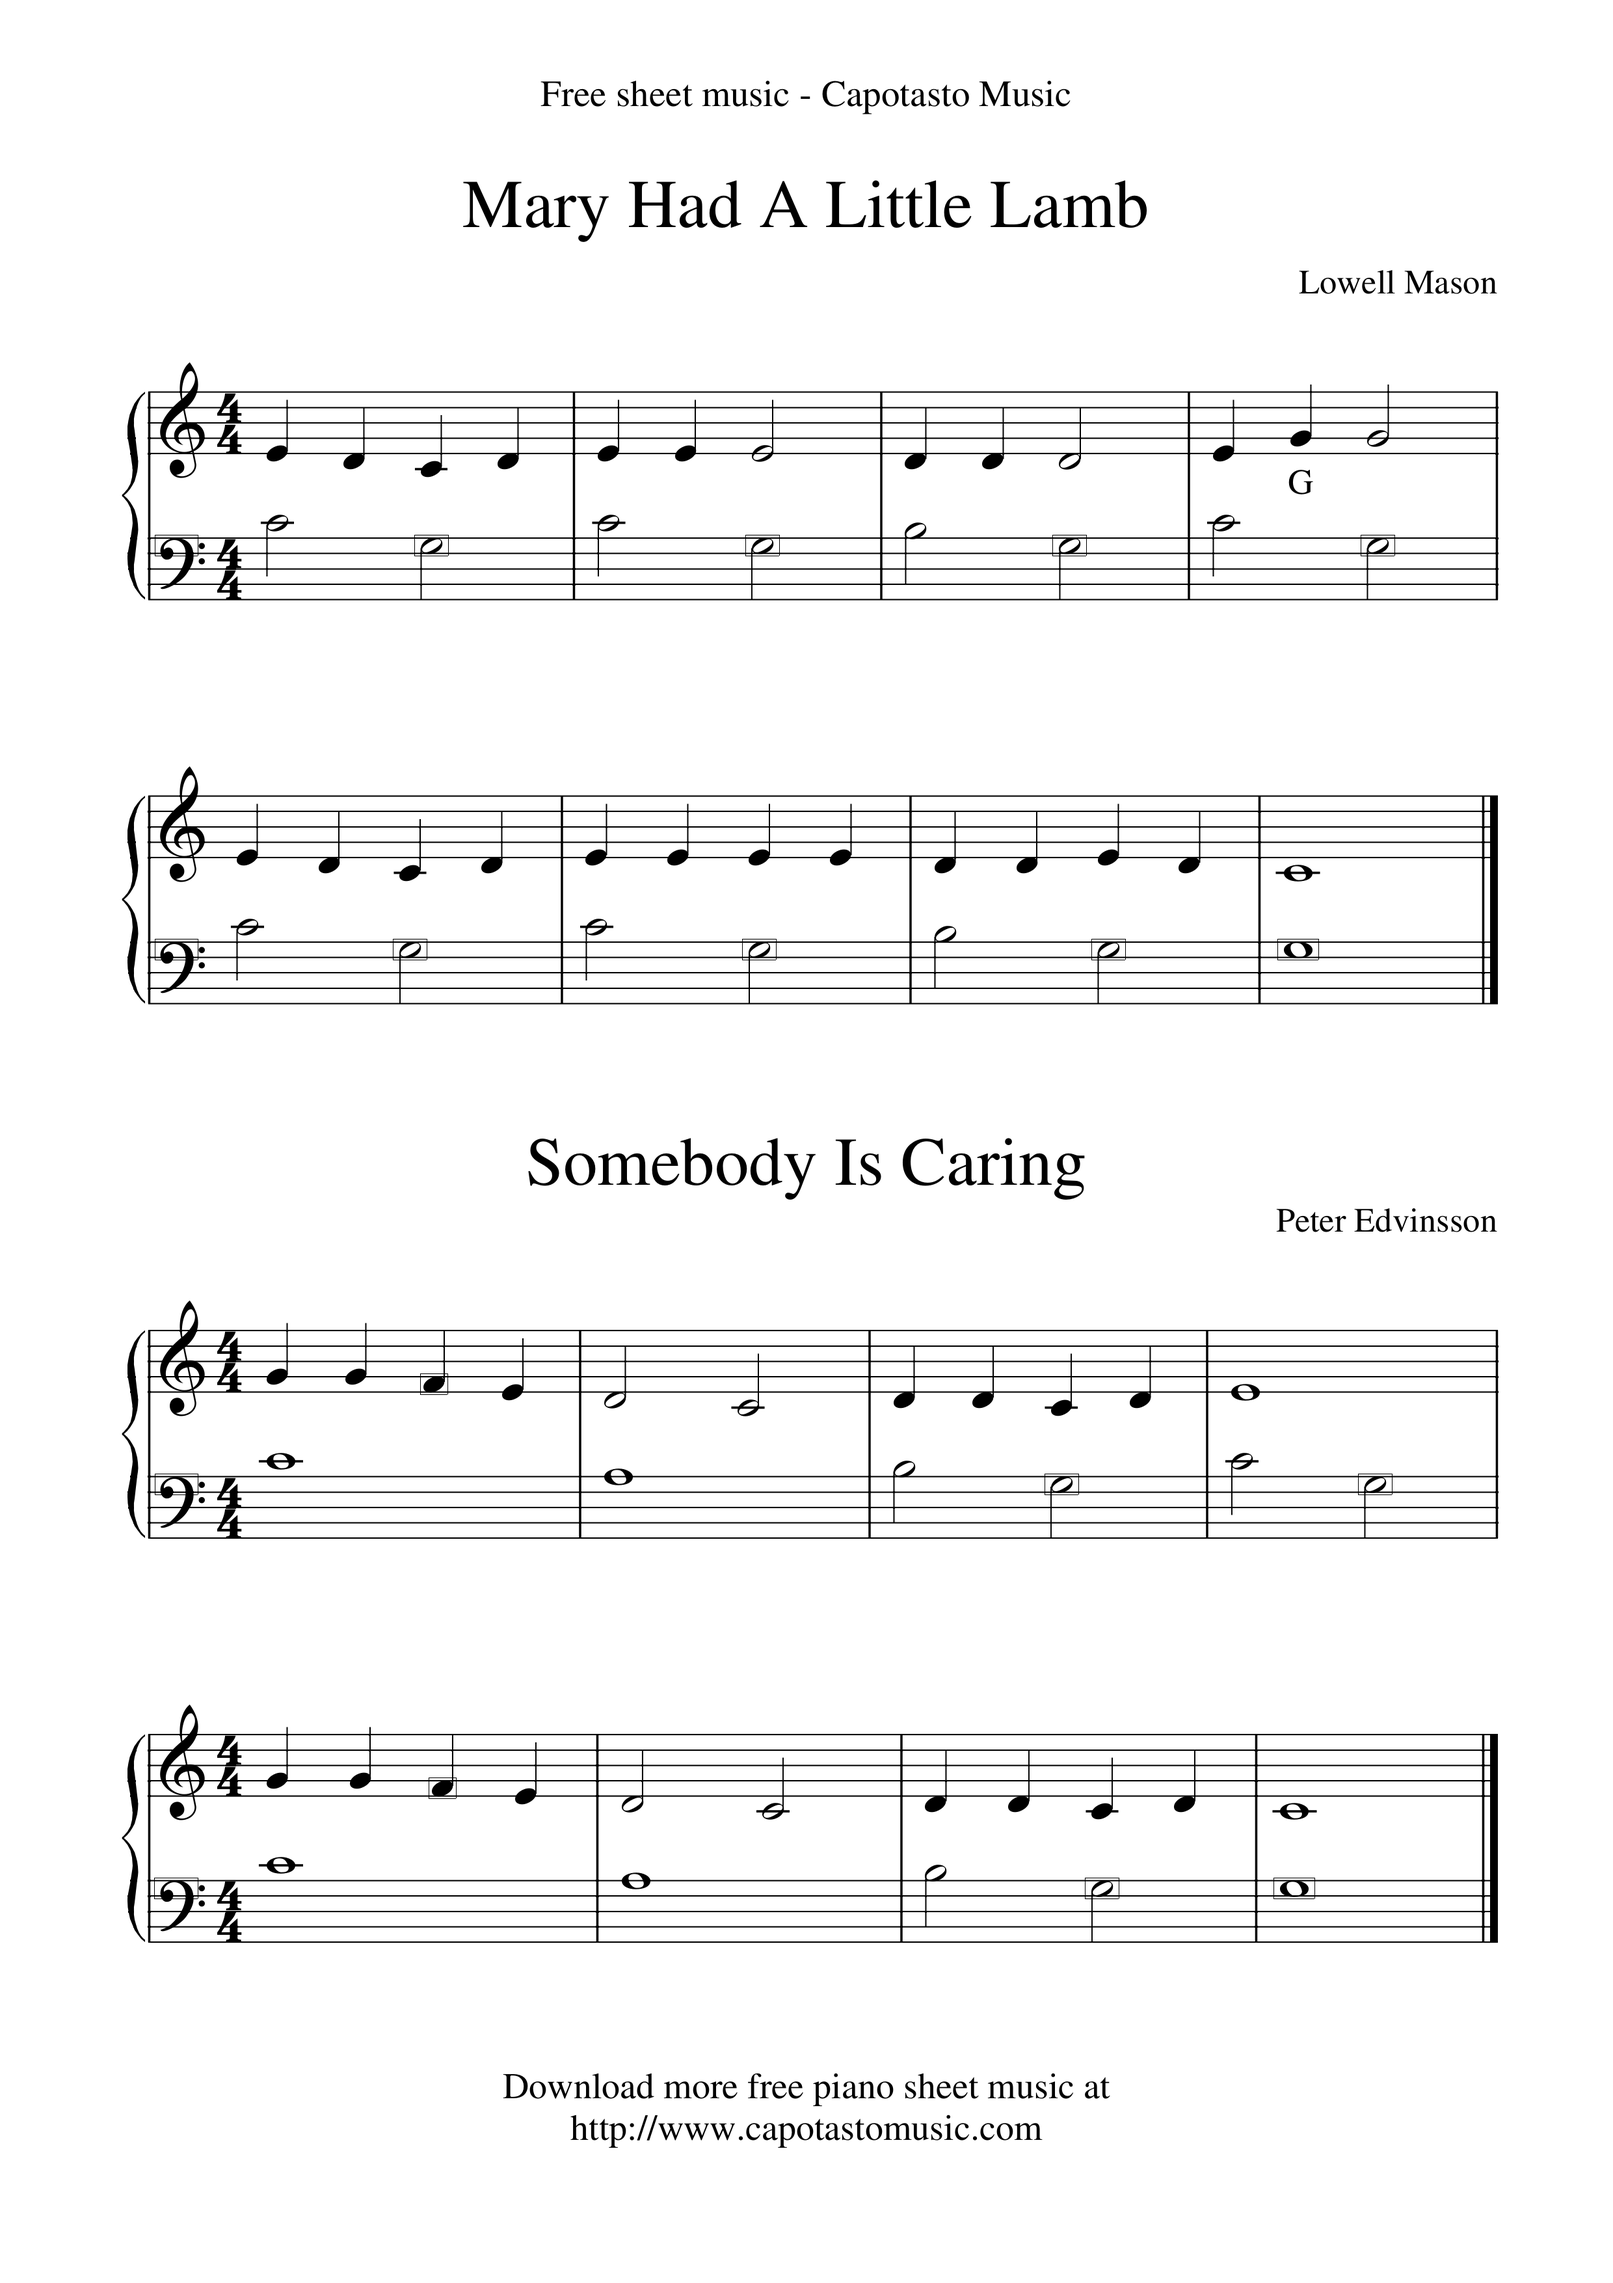
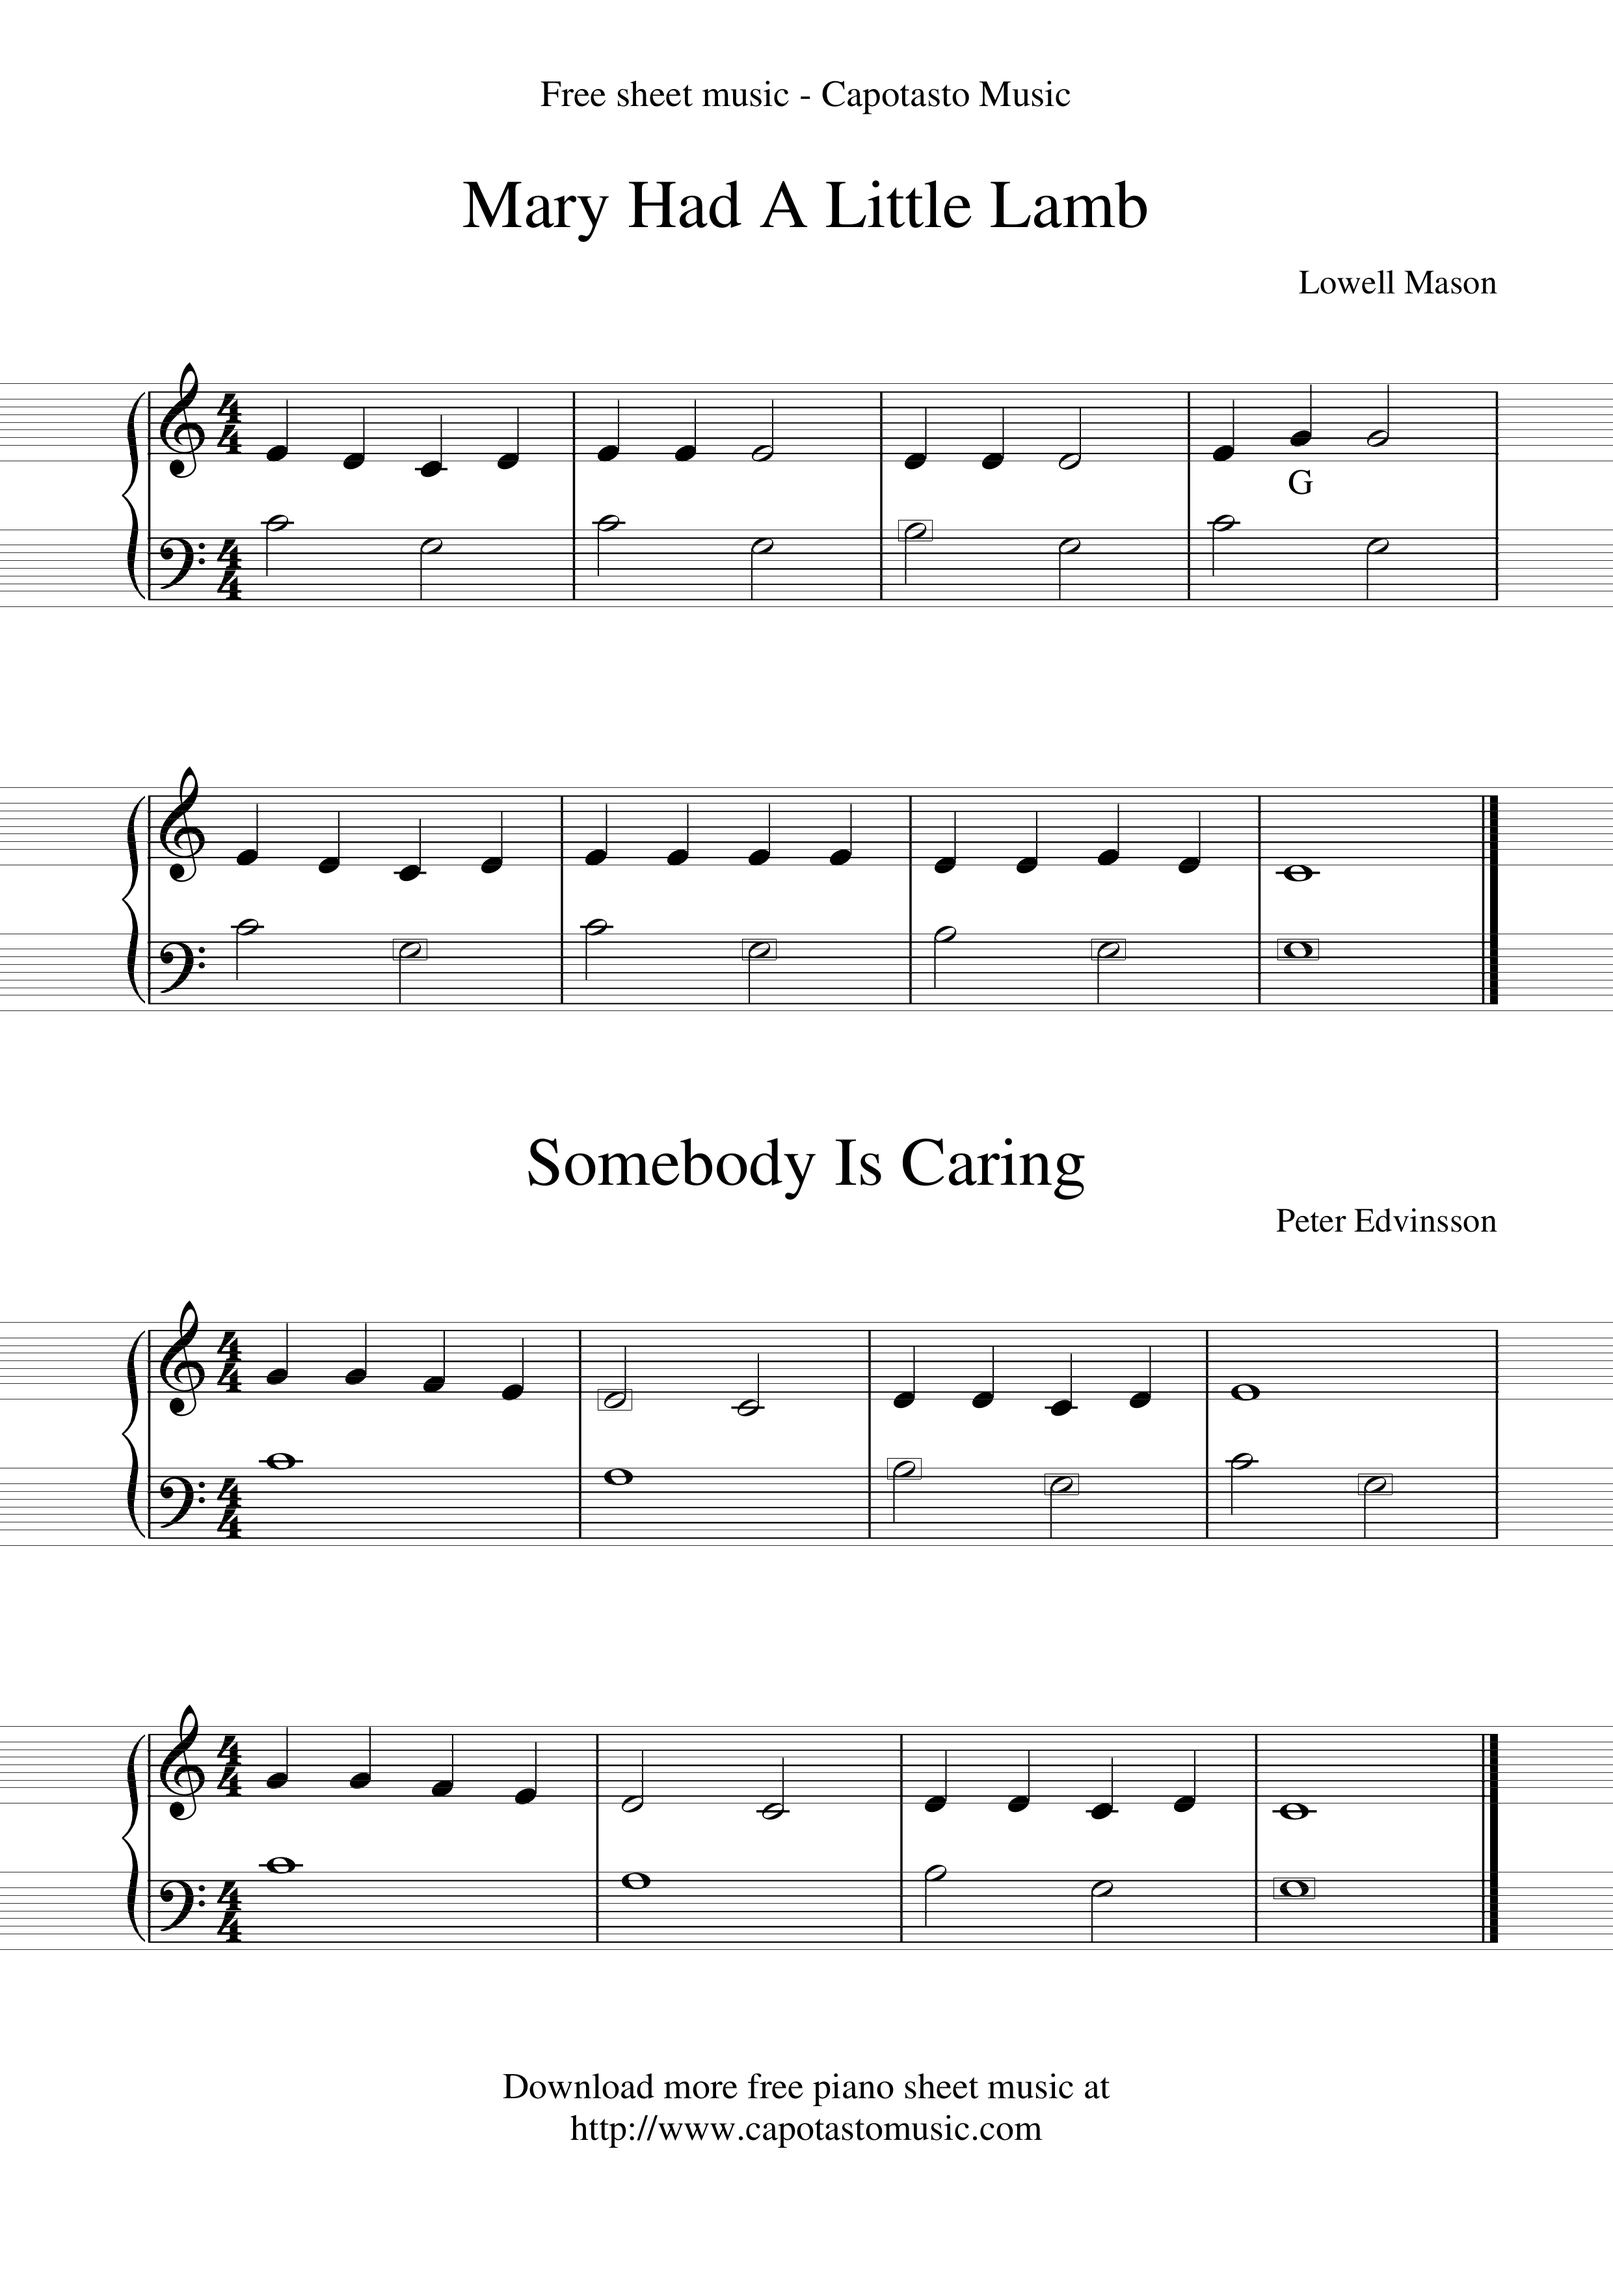
perfecttestingenvironment!!!

diff --git a/main.py b/main.py
@@ -1462,17 +1462,30 @@ def extract_highlighted_lines_and_columns_from_image_kept_in(image_path, thresho
                 stopping_point += round(temp_difference / 2)
             else:
                 stopping_point = (row[1] + lines[row_index - 1][1]) / 2
+            #before first
+            group.extend([[current_y - round(temp_difference / 2), current_y - round(temp_difference / 2) + round(line_height / 2)]])
+            last_line = -1
             for add_row_index in range(4): 
                 future_line = lines[row_index + add_row_index + 1][1] 
+                last_line = future_line
                 group.extend([[int((future_line + lines[row_index + add_row_index][1]) / 2), int((future_line + lines[row_index + add_row_index][1]) / 2) + round(line_height / 2)]])
                 if add_row_index != 3:
                     group.extend([[future_line, future_line + round(line_height / 2)]])
+            #after first
+            #make it draw the lines
+            group.extend([[last_line + round(temp_difference / 2), last_line + round(temp_difference / 2) + round(line_height / 2)]])
             invisible_lines.append(group)
             group = []
     notes = []
     for group in invisible_lines:
 
         for [current_loop_y, new_y] in group:
+            img_array[current_loop_y: current_loop_y + 1, 0: width] = 50
+            
+            
+
+
+
             #i think it's not going all the way
             row_notes = []
             # Process the lines and get the notes
@@ -1545,7 +1558,8 @@ def extract_highlighted_lines_and_columns_from_image_kept_in(image_path, thresho
                     row_notes.append(['dashed_white', dashed_white])
                 index += 1
             notes.append(row_notes)
-
+    img = Image.fromarray(img_array)
+    img.save('sigma/new_input/page_2.png')
     past_notes = []
     
     for index, row in enumerate(notes):
